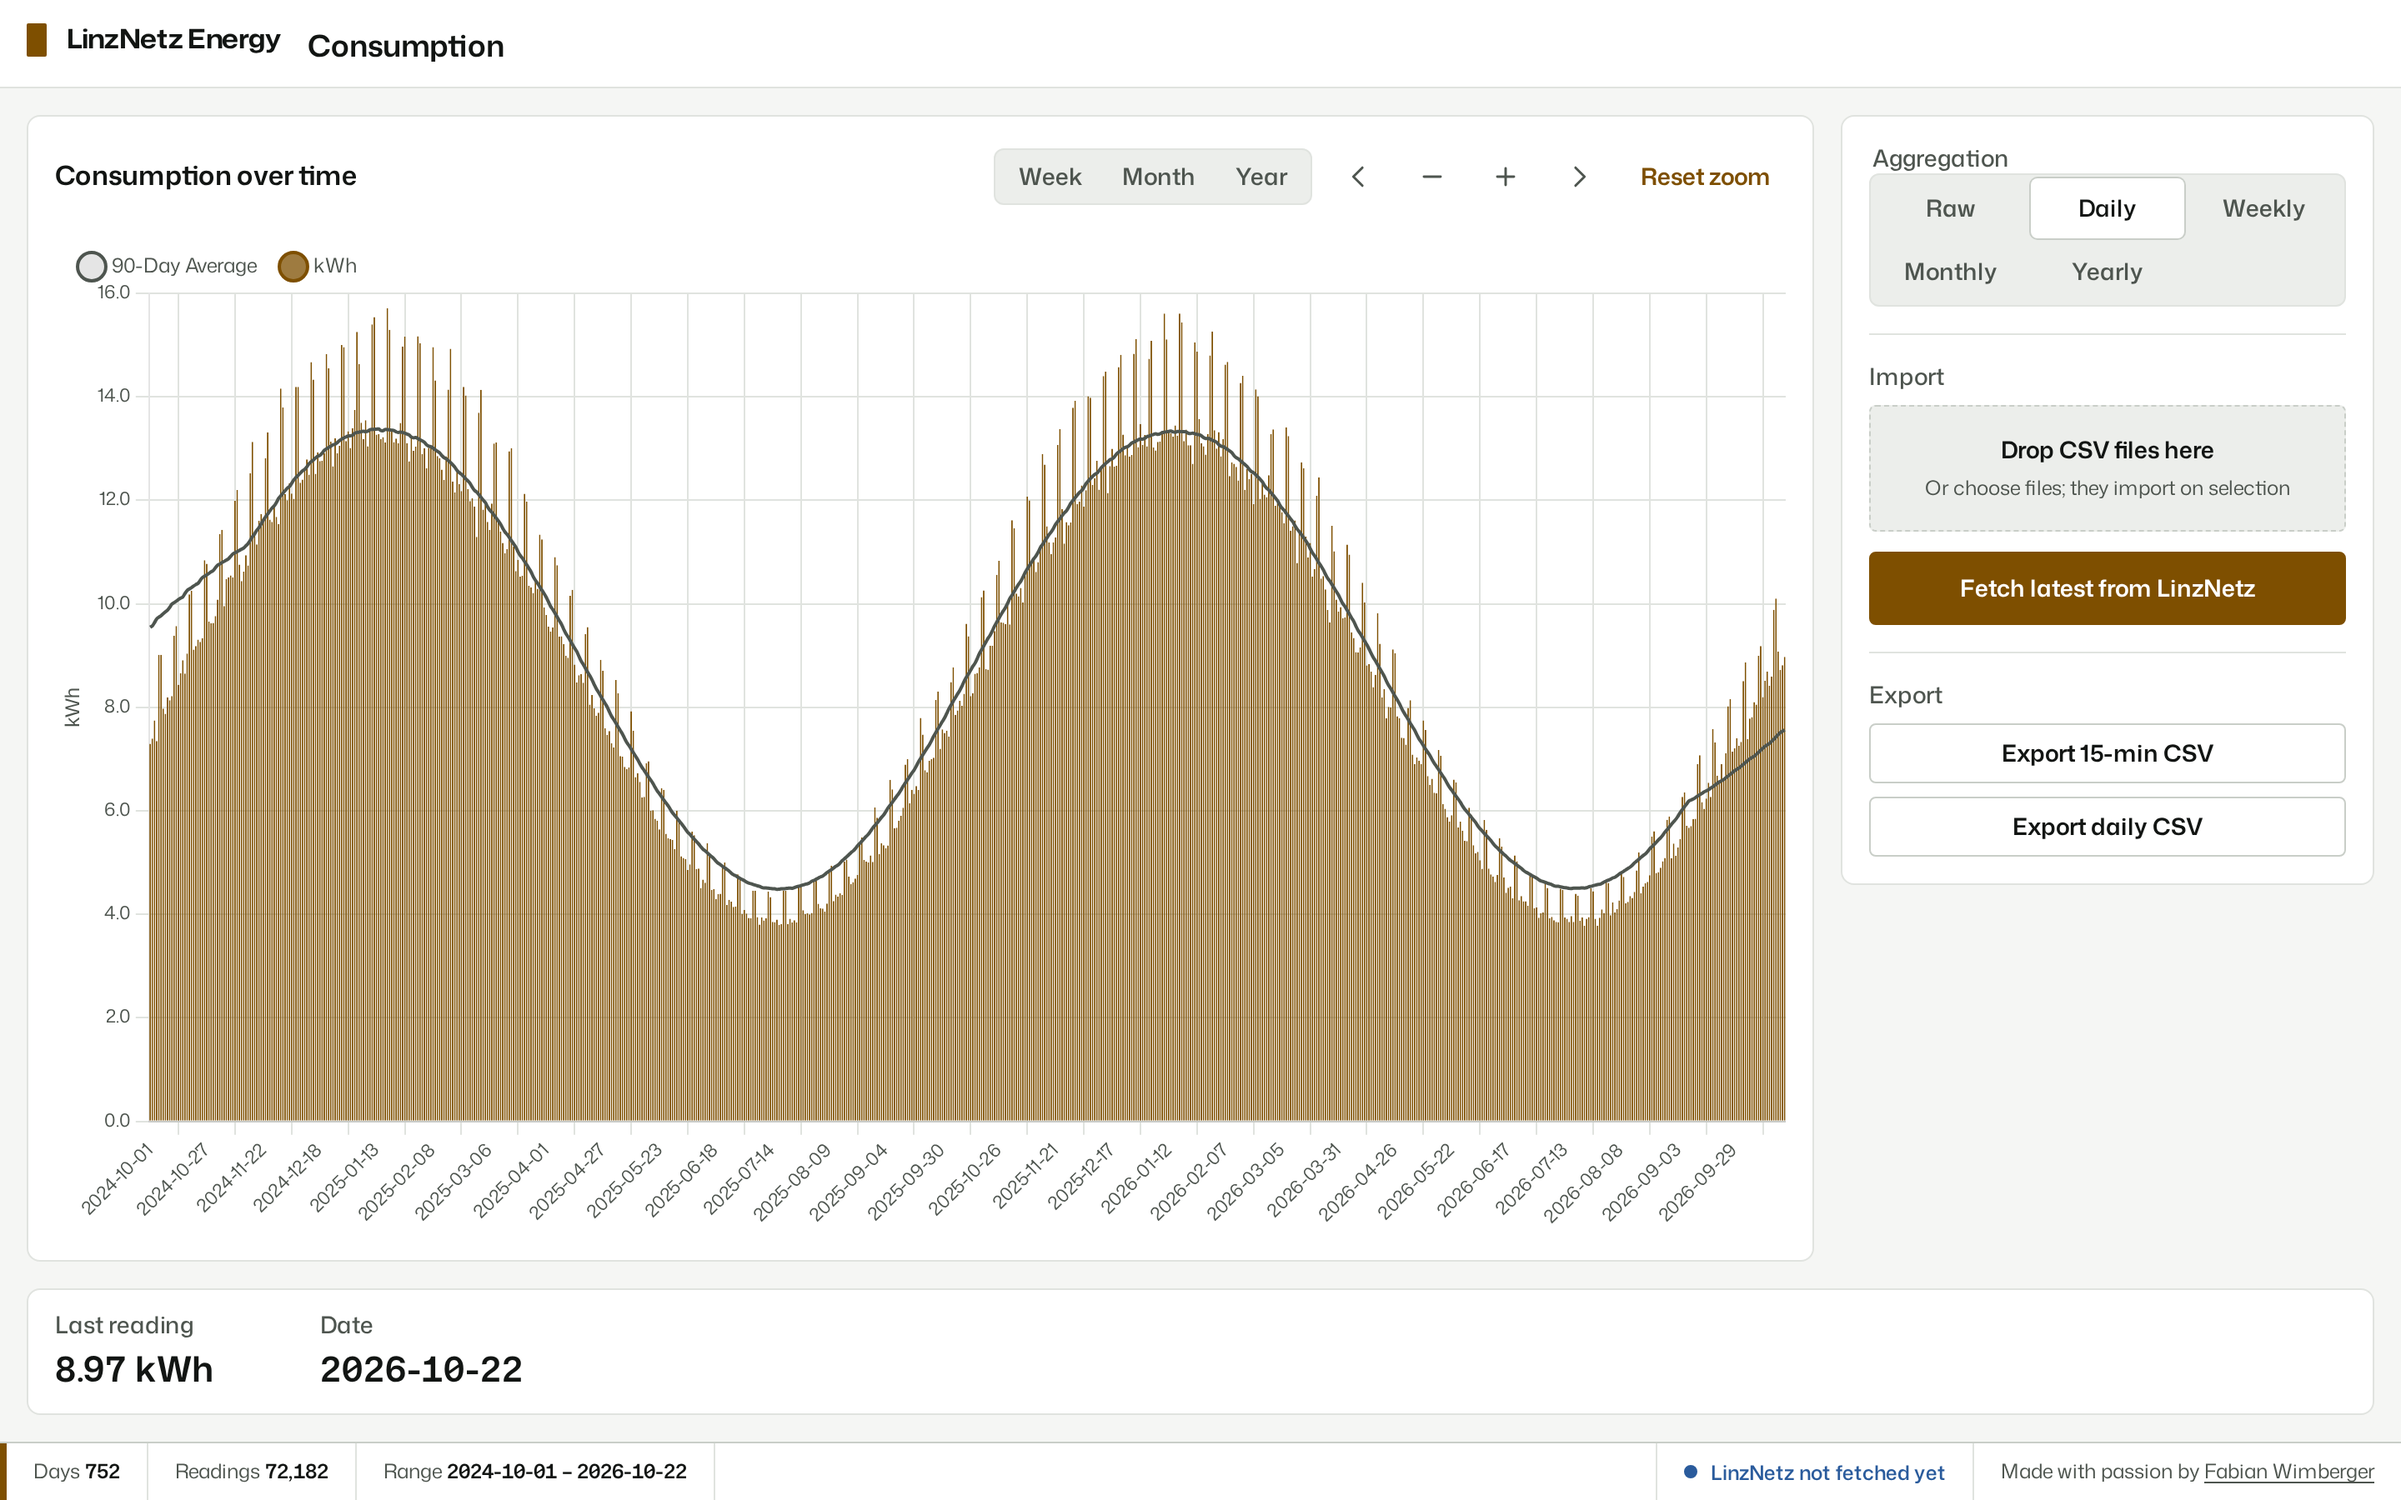
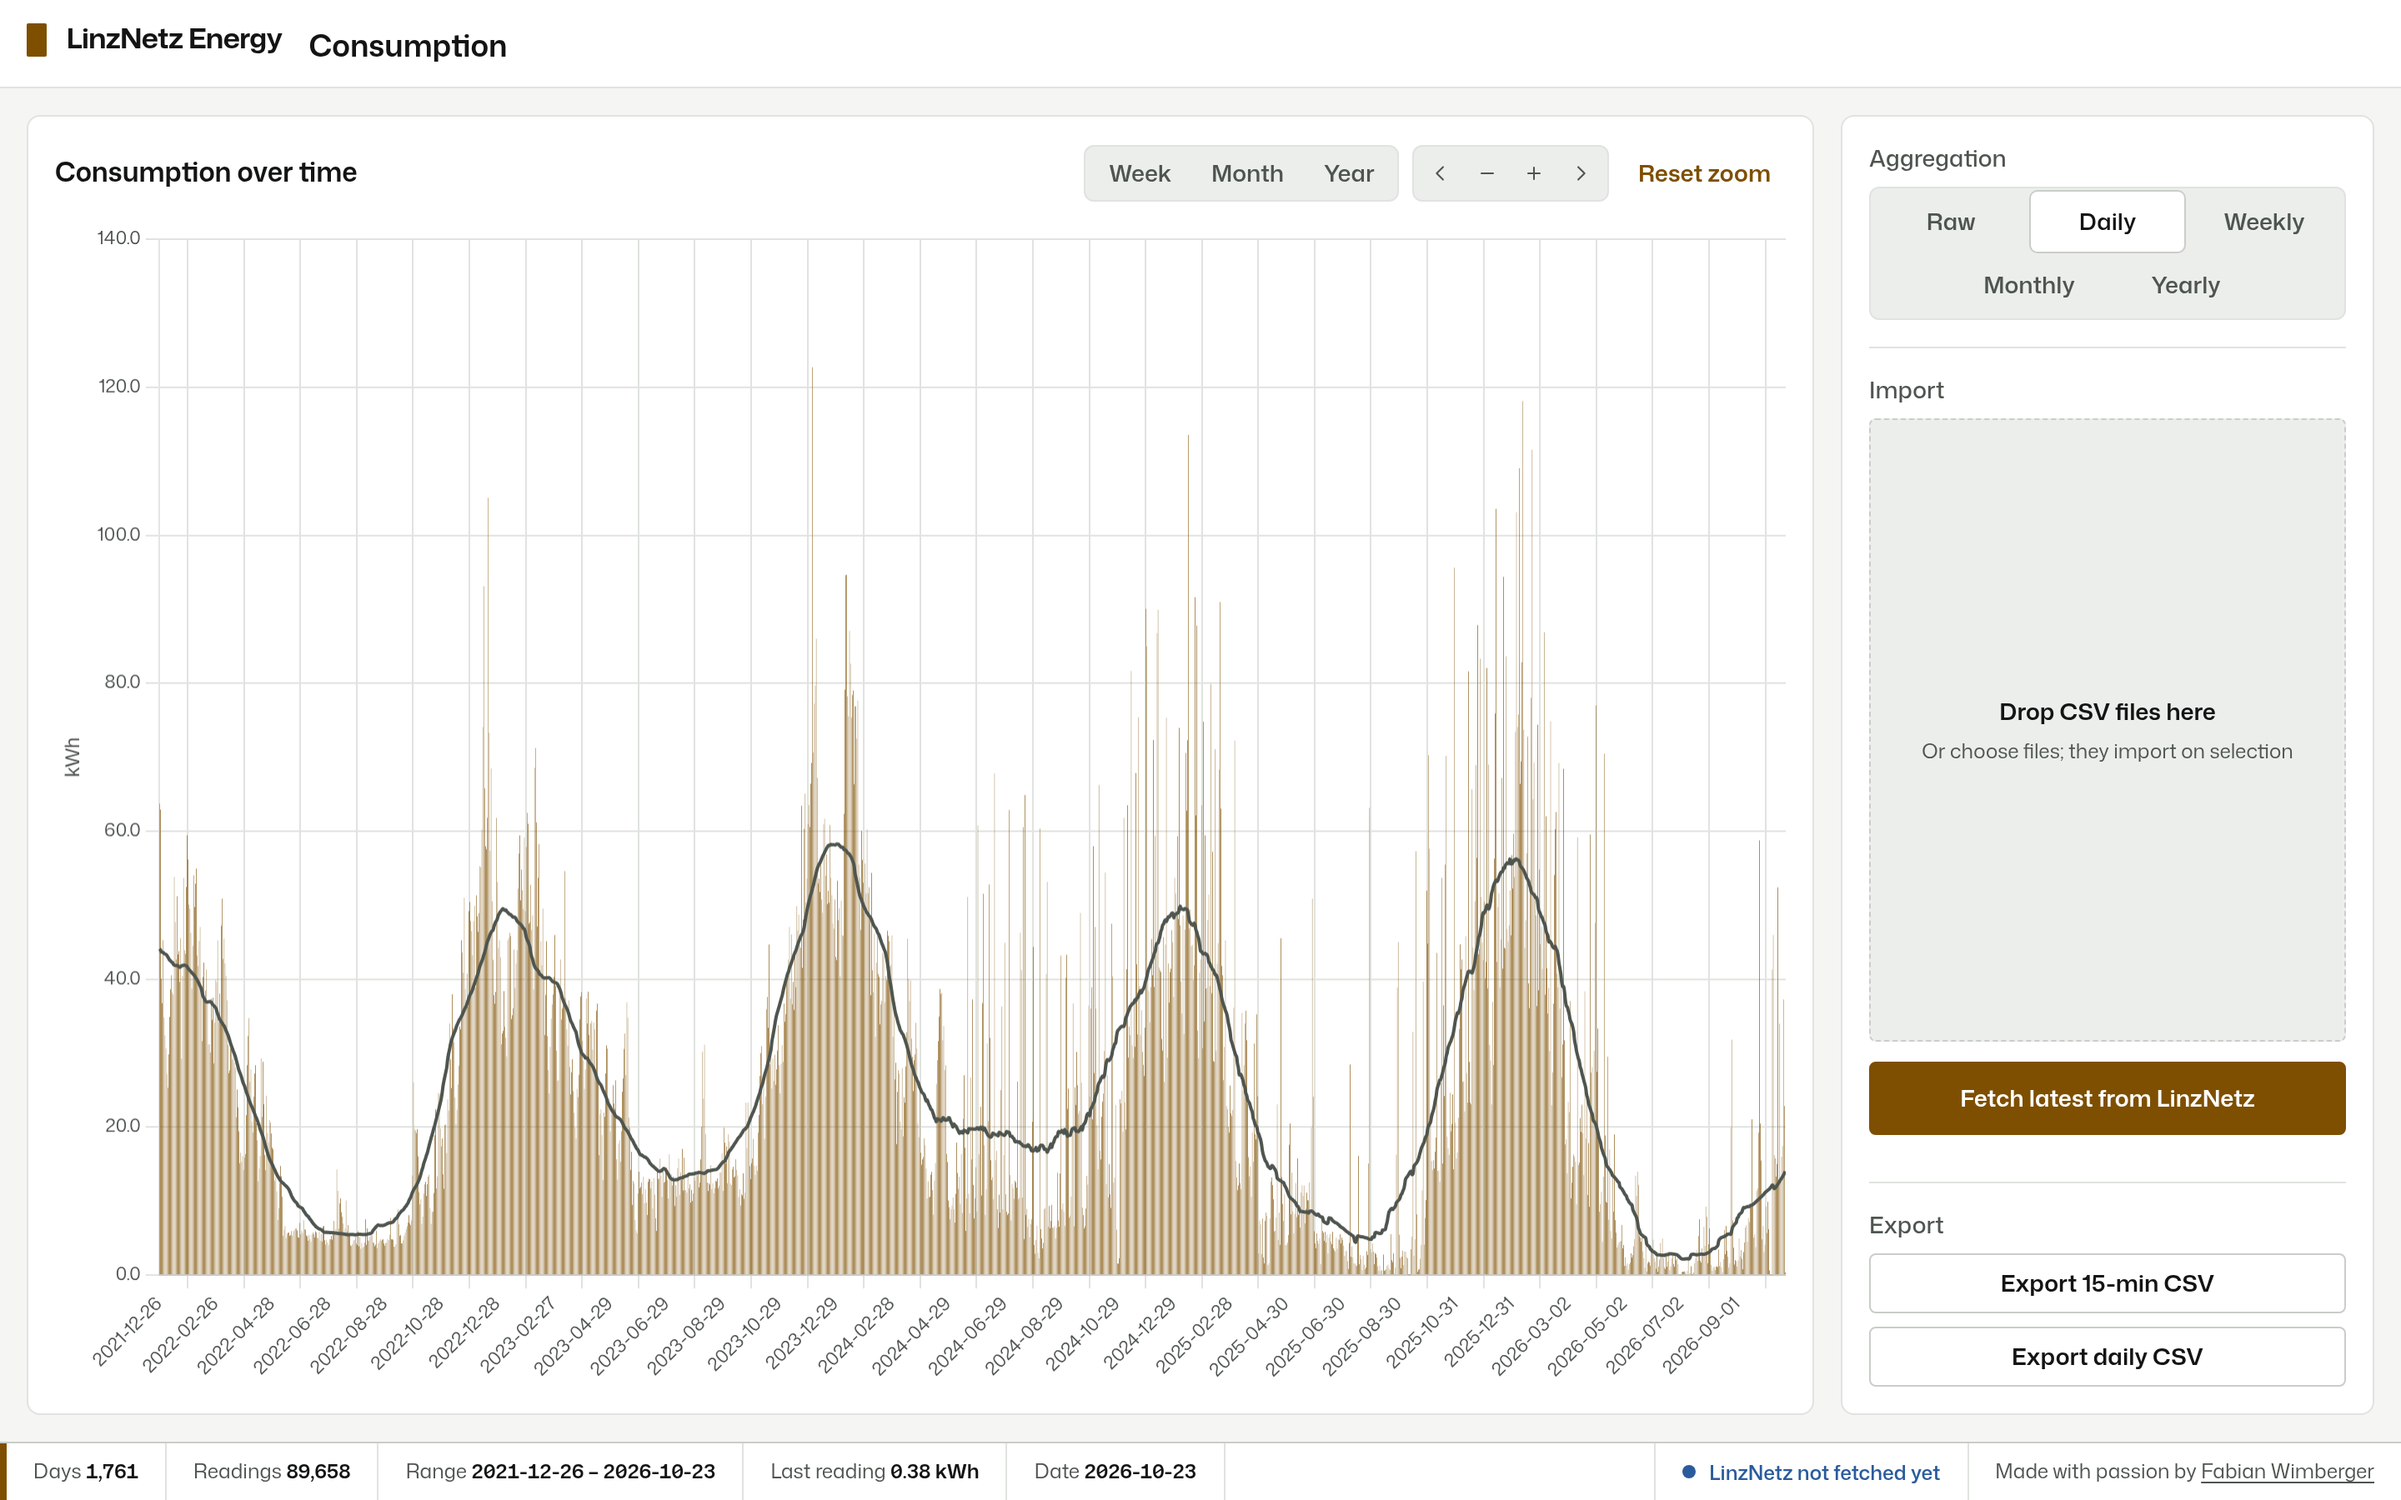
fix: rebalance the side panel and give the chart more room (#117)
* fix: rebalance the side panel and give the chart more room

The legend is gone so the plot fills the card, last reading and date moved into the status bar, and the zoom buttons share the container style of the range switch. The side panel now matches the chart card height, the drop area takes the leftover space, and aggregation reads as three over two centred options.

* chore: release 1.6.1

diff --git a/static/styles.css b/static/styles.css
@@ -152,9 +152,22 @@
 
 .seg--stack {
   display: grid;
-  grid-template-columns: repeat(3, minmax(0, 1fr));
+  grid-template-columns: repeat(6, minmax(0, 1fr));
   gap: 2px;
   width: 100%;
+}
+
+/* Five options: three on top, two centred underneath. */
+.seg--stack .seg__label {
+  grid-column: span 2;
+}
+
+.seg--stack .seg__label:nth-of-type(4) {
+  grid-column: 2 / span 2;
+}
+
+.seg--stack .seg__label:nth-of-type(5) {
+  grid-column: 4 / span 2;
 }
 
 .seg__input {
@@ -253,10 +266,8 @@ body {
   flex: 1;
   display: grid;
   grid-template-columns: minmax(0, 1fr) 20rem;
-  grid-template-rows: minmax(0, 1fr) auto;
-  grid-template-areas:
-    "chart side"
-    "live live";
+  grid-template-rows: minmax(0, 1fr);
+  grid-template-areas: "chart side";
   gap: var(--s-4);
   padding: var(--s-4);
 }
@@ -297,7 +308,22 @@ body {
 .zoom-group {
   display: flex;
   align-items: center;
-  gap: var(--s-1);
+  gap: 0;
+  padding: 2px;
+  background: var(--sunk);
+  border: 1px solid var(--line);
+  border-radius: calc(var(--r-control) + 2px);
+}
+
+.zoom-group .icon-btn {
+  width: 1.75rem;
+  height: 1.75rem;
+}
+
+.zoom-group .icon-btn:hover {
+  background: var(--surface);
+  color: var(--ink);
+  box-shadow: inset 0 0 0 1px var(--line-strong);
 }
 
 .chart-toolbar .btn--text {
@@ -339,7 +365,7 @@ body {
 
 .side {
   grid-area: side;
-  align-self: start;
+  align-self: stretch;
   display: flex;
   flex-direction: column;
   gap: var(--s-4);
@@ -347,6 +373,20 @@ body {
   background: var(--surface);
   border: 1px solid var(--line);
   border-radius: var(--r-panel);
+}
+
+.side__group:last-child {
+  margin-top: auto;
+}
+
+/* The import area takes the leftover height so the fetch button sits on the divider. */
+.side__group--grow {
+  grid-template-rows: auto minmax(0, 1fr);
+  flex: 1;
+}
+
+.side__group--grow .upload {
+  grid-template-rows: minmax(0, 1fr) auto auto;
 }
 
 .side__group {
@@ -367,6 +407,7 @@ body {
 .drop-area {
   position: relative;
   display: grid;
+  align-content: center;
   gap: var(--s-1);
   padding: var(--s-4);
   text-align: center;
@@ -437,30 +478,6 @@ body {
 .export {
   display: grid;
   gap: var(--s-2);
-}
-
-/* ---------- Live strip ---------- */
-
-.live {
-  grid-area: live;
-  display: flex;
-  flex-wrap: wrap;
-  align-items: baseline;
-  gap: var(--s-2) var(--s-8);
-  padding: var(--s-3) var(--s-4);
-  background: var(--surface);
-  border: 1px solid var(--line);
-  border-radius: var(--r-panel);
-}
-
-.live__cell {
-  display: grid;
-  gap: 2px;
-}
-
-.live__value {
-  font-size: var(--fs-21);
-  font-weight: 620;
 }
 
 /* ---------- Status bar ---------- */
@@ -616,8 +633,7 @@ body {
     grid-template-rows: none;
     grid-template-areas:
       "chart"
-      "side"
-      "live";
+      "side";
     gap: var(--s-3);
     padding: var(--s-3);
   }
@@ -626,12 +642,14 @@ body {
     min-height: 16rem;
   }
 
-  .live {
-    gap: var(--s-2) var(--s-5);
-  }
-
   .statusbar {
     font-size: var(--fs-12);
+  }
+
+  /* Range and Date stay off the phone status bar; the axis shows both. */
+  .statusbar__range,
+  .statusbar__date {
+    display: none;
   }
 
   .statusbar > * {

diff --git a/static/index.html b/static/index.html
@@ -61,8 +61,8 @@
 
             <aside class="side" aria-label="View and data">
                 <div class="side__group">
-                    <fieldset class="field">
-                        <legend class="label">Aggregation</legend>
+                    <div class="field" role="group" aria-labelledby="aggregation-label">
+                        <h2 class="label" id="aggregation-label">Aggregation</h2>
                         <div class="seg seg--stack">
                             <input type="radio" id="agg-raw" name="aggregation" value="raw" class="seg__input">
                             <label for="agg-raw" class="seg__label">Raw</label>
@@ -75,7 +75,7 @@
                             <input type="radio" id="agg-yearly" name="aggregation" value="yearly" class="seg__input">
                             <label for="agg-yearly" class="seg__label">Yearly</label>
                         </div>
-                    </fieldset>
+                    </div>
 
                     <div id="date-picker-container" class="field hidden">
                         <label class="label" for="date-picker">Day</label>
@@ -83,7 +83,7 @@
                     </div>
                 </div>
 
-                <div class="side__group">
+                <div class="side__group side__group--grow">
                     <h2 class="label">Import</h2>
 
                     <form id="upload-form" class="upload">
@@ -132,22 +132,14 @@
                 </div>
             </aside>
 
-            <section class="live" aria-label="Last reading">
-                <div class="live__cell">
-                    <span class="label">Last reading</span>
-                    <span class="live__value num" id="live-value">No data</span>
-                </div>
-                <div class="live__cell">
-                    <span class="label">Date</span>
-                    <span class="live__value num" id="live-date">No date</span>
-                </div>
-            </section>
         </main>
 
         <footer class="statusbar">
             <span>Days <b class="num" id="status-days">Loading</b></span>
             <span id="status-readings-wrap" hidden>Readings <b class="num" id="status-readings">0</b></span>
-            <span>Range <b class="num" id="status-range">Loading</b></span>
+            <span class="statusbar__range">Range <b class="num" id="status-range">Loading</b></span>
+            <span>Last reading <b class="num" id="live-value">No data</b></span>
+            <span class="statusbar__date">Date <b class="num" id="live-date">No date</b></span>
             <span class="grow"><span class="status status--info" id="status-linznetz">LinzNetz not fetched yet</span></span>
             <span class="statusbar__credit">Made with passion by <a href="https://fabianwimberger.at/" target="_blank" rel="noopener">Fabian Wimberger</a></span>
         </footer>

diff --git a/static/script.js b/static/script.js
@@ -320,19 +320,7 @@ document.addEventListener('DOMContentLoaded', () => {
                 },
                 plugins: {
                     legend: {
-                        position: 'top',
-                        align: 'start',
-                        labels: {
-                            color: colors.inkMuted,
-                            font: {
-                                family: chartFont,
-                                size: 12
-                            },
-                            boxWidth: 12,
-                            boxHeight: 12,
-                            padding: 16,
-                            usePointStyle: true
-                        }
+                        display: false
                     },
                     tooltip: {
                         backgroundColor: colors.surface,

diff --git a/version.py b/version.py
@@ -1,3 +1,3 @@
 """Single source of truth for the application version."""
 
-__version__ = "1.6.0"
+__version__ = "1.6.1"

diff --git a/CHANGELOG.md b/CHANGELOG.md
@@ -5,6 +5,26 @@ All notable changes to this project are documented in this file.
 The format is based on [Keep a Changelog](https://keepachangelog.com/en/1.1.0/),
 and this project adheres to [Semantic Versioning](https://semver.org/spec/v2.0.0.html).
 
+## [v1.6.1] - 2026-10-24
+
+Gives the chart more room and evens out the panels around it.
+
+### Features
+
+- The chart legend is gone: the plot area takes the height it used, and last reading and date moved from their own strip into the status bar.
+- On phones the status bar leaves out range and date, which the time axis already shows.
+
+### Fixes
+
+- The side panel is as tall as the chart card. The drop area fills the leftover height, so `Fetch latest from LinzNetz` sits above the export divider.
+- Aggregation shows three options over two centred ones, with the same label spacing as the import and export groups.
+- The zoom buttons share the container style of the range switch.
+
+### Documentation & Links
+
+- [README](https://github.com/fabianwimberger/linznetz-energy-tracker#readme)
+- [Full changelog](https://github.com/fabianwimberger/linznetz-energy-tracker/compare/v1.6.0...v1.6.1)
+
 ## [v1.6.0] - 2026-10-23
 
 Redesigns the web UI around the consumption chart.
